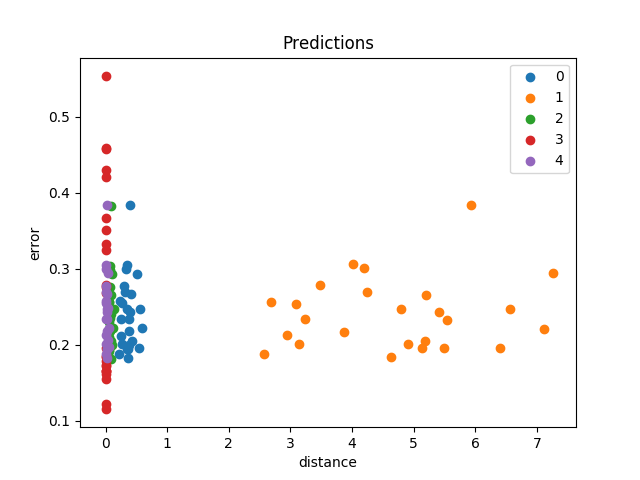
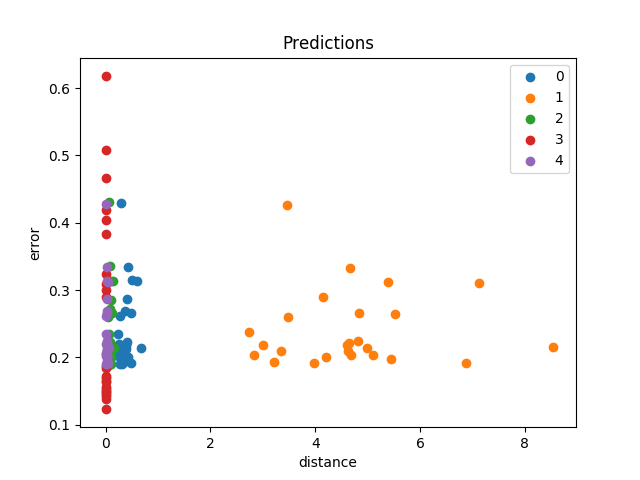
tt

diff --git a/RNN/L_RNN.py b/RNN/L_RNN.py
@@ -174,10 +174,10 @@ class L_LSTM:
 		# iter1, iter2 = tee(data_iterator)
 		# metrics.validate(valid_data, self)
 
-		#nn = NN.Forward_NN({'input_dim':self.latent_dim, 'output_dim':self.latent_dim, 'mode':'sample'})
-		#nn.run(None)
-		# metrics.plot_metrics(self, data_iterator, valid_data, None)
-		association_evaluation.plot_best_distance_function(self, valid_data, data_iterator)
+		nn = NN.Forward_NN({'input_dim':self.latent_dim, 'output_dim':self.latent_dim, 'mode':'sample'})
+		nn.run(None)
+		metrics.plot_metrics(self, data_iterator, valid_data, nn)
+		# association_evaluation.plot_best_distance_function(self, valid_data, data_iterator)
 		# association_evaluation.eval_generation(self, valid_data, data_iterator)
 		# association_evaluation.eval_center(self, valid_data, 'sitting')
 		# association_evaluation.transfer_motion(self, valid_data, 'sitting', 'walking', data_iterator)
@@ -186,7 +186,7 @@ class L_LSTM:
 		# association_evaluation.eval_generation_from_label(self, data_iterator)
 		# association_evaluation.plot_add(self, data_iterator)
 		# metrics.plot_metrics_labels(self, data_iterator, valid_data)
-		#metric_baselines.compare_label_embedding(self, nn, data_iterator)
+		# metric_baselines.compare_label_embedding(self, nn, data_iterator)
 		# association_evaluation.eval_distance(self, valid_data)
 		# evaluate.eval_pattern_reconstruction(self.encoder, self.decoder, iter2)
 

diff --git a/RNN/utils/metrics.py b/RNN/utils/metrics.py
@@ -162,7 +162,7 @@ def __cuts():
 
 def __rn():
 	# return [100, 200, -1, -2, -3, -4]
-	return [100, 500, 1000, 5000, 10000, -1, -2, -3, -4]  #, -5]
+	return [100, 500, 1000, 5000, 10000, -1, -2, -3, -4, -5]
 
 def __common_params(n):
 	cuts = __cuts()
@@ -801,8 +801,8 @@ def plot_metrics(model, data_iterator, validation_data, nn=None, n_valid = 100):
 			zs = np.zeros((len(rn), z_ref.shape[-1]))
 			for i,n in enumerate(rn):
 				if n == -5:
-					pass
-					#new_e = nn.model.predict(np.array([z_ref]))[0]
+					#pass
+					new_e = nn.model.predict(np.array([z_ref]))[0]
 				if n == -4:
 					new_e_idx = __closest_partial_index(embedding[:,1], z_ref)
 					new_e = embedding[new_e_idx,cut]
@@ -828,7 +828,7 @@ def plot_metrics(model, data_iterator, validation_data, nn=None, n_valid = 100):
 	ys = np.array([[np.mean(scores['score'][n][cut]) for n in rn] for cut in cuts])
 	errs = np.array([[np.std(scores['score'][n][cut]) for n in rn] for cut in cuts])
 	labels = [str(model.hierarchies[c] + 1) for c in cuts]
-	x_ticks = map(str, rn[:-4])+['all', 'CLOSEST', 'ADD', 'P_CLOSEST'] #, 'FN']
+	x_ticks = map(str, rn[:-4])+['all', 'CLOSEST', 'ADD', 'P_CLOSEST', 'FN']
 	x_label = 'Number of random latent representation'
 	y_label = 'Error'
 	title = 'Pose error'

diff --git a/RNN/Forward/NN.py b/RNN/Forward/NN.py
@@ -23,7 +23,7 @@ class Forward_NN:
 		self.cv_splits = args['cv_splits'] if 'cv_splits' in args else 0.2
 		self.trained = args['mode'] == 'sample'
 
-		self.load_path = args['load_path'] if 'load_path' in args else '../models/Forward_NN_t30-l600-raw.hdf5'
+		self.load_path = args['load_path'] if 'load_path' in args else '../models/Forward_NN_t25-l512-r.hd5f'
 		self.save_path = args['save_path'] if 'save_path' in args else ''
 
 		self.model = None
